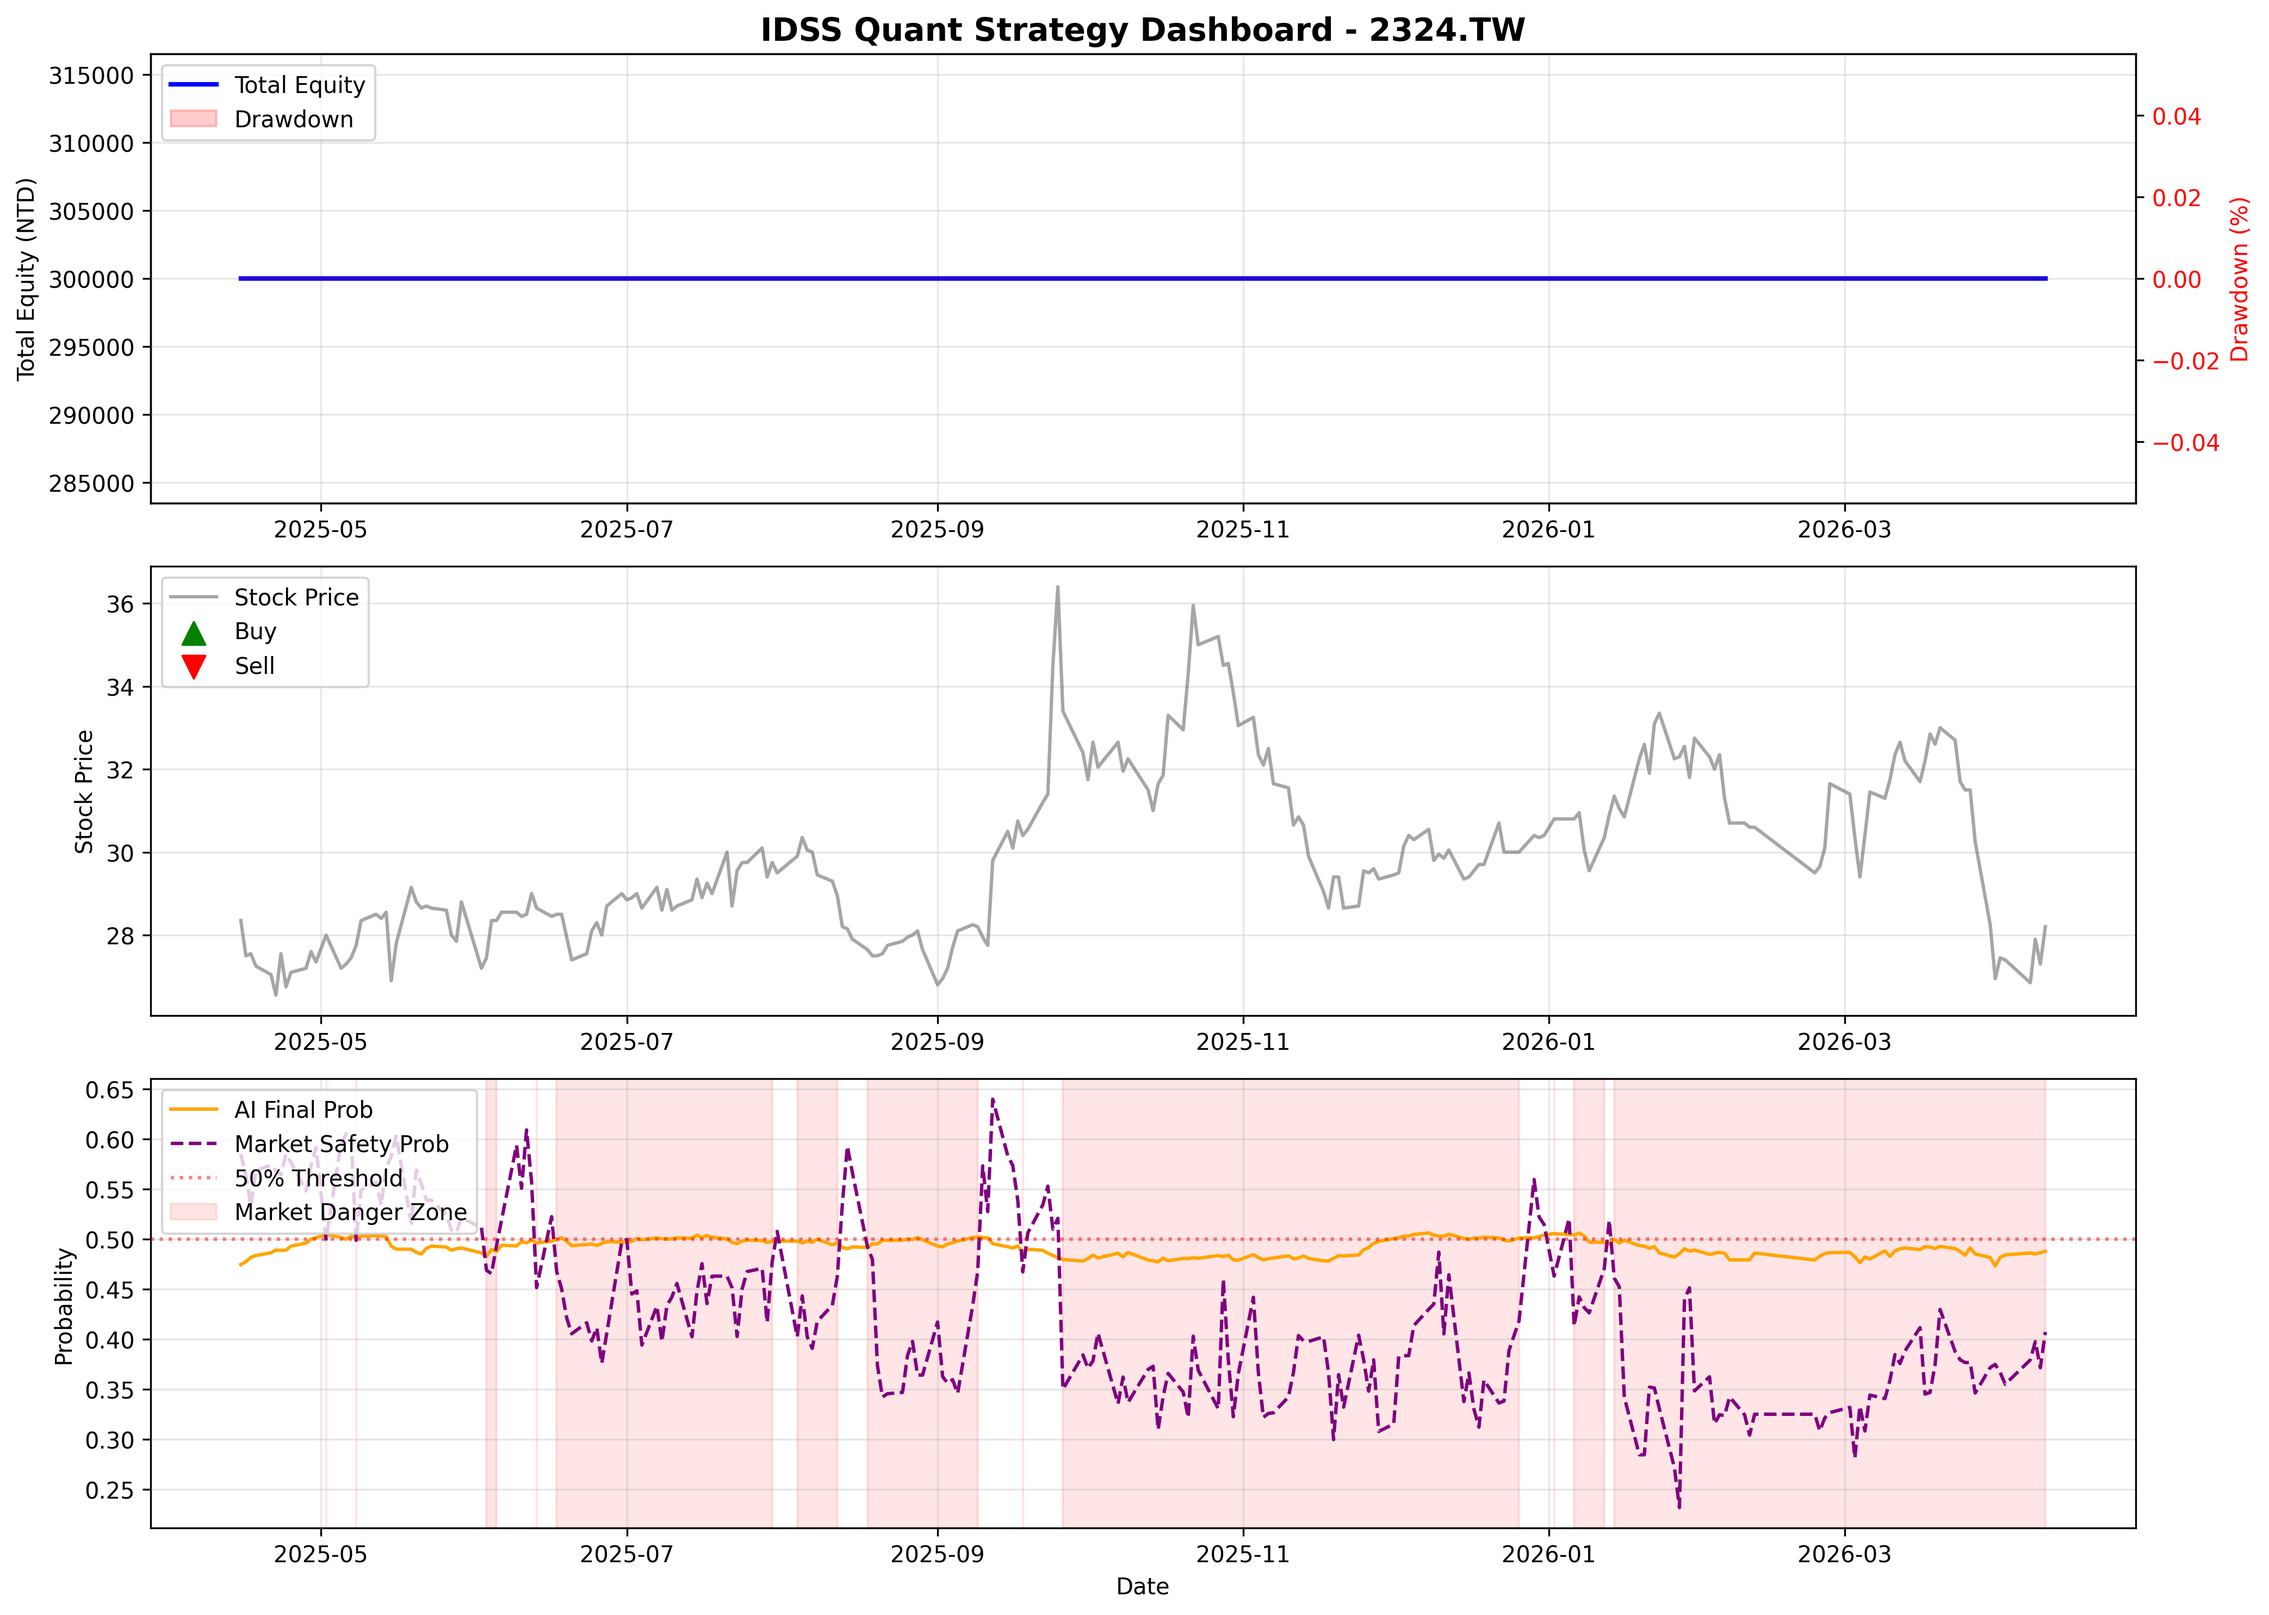
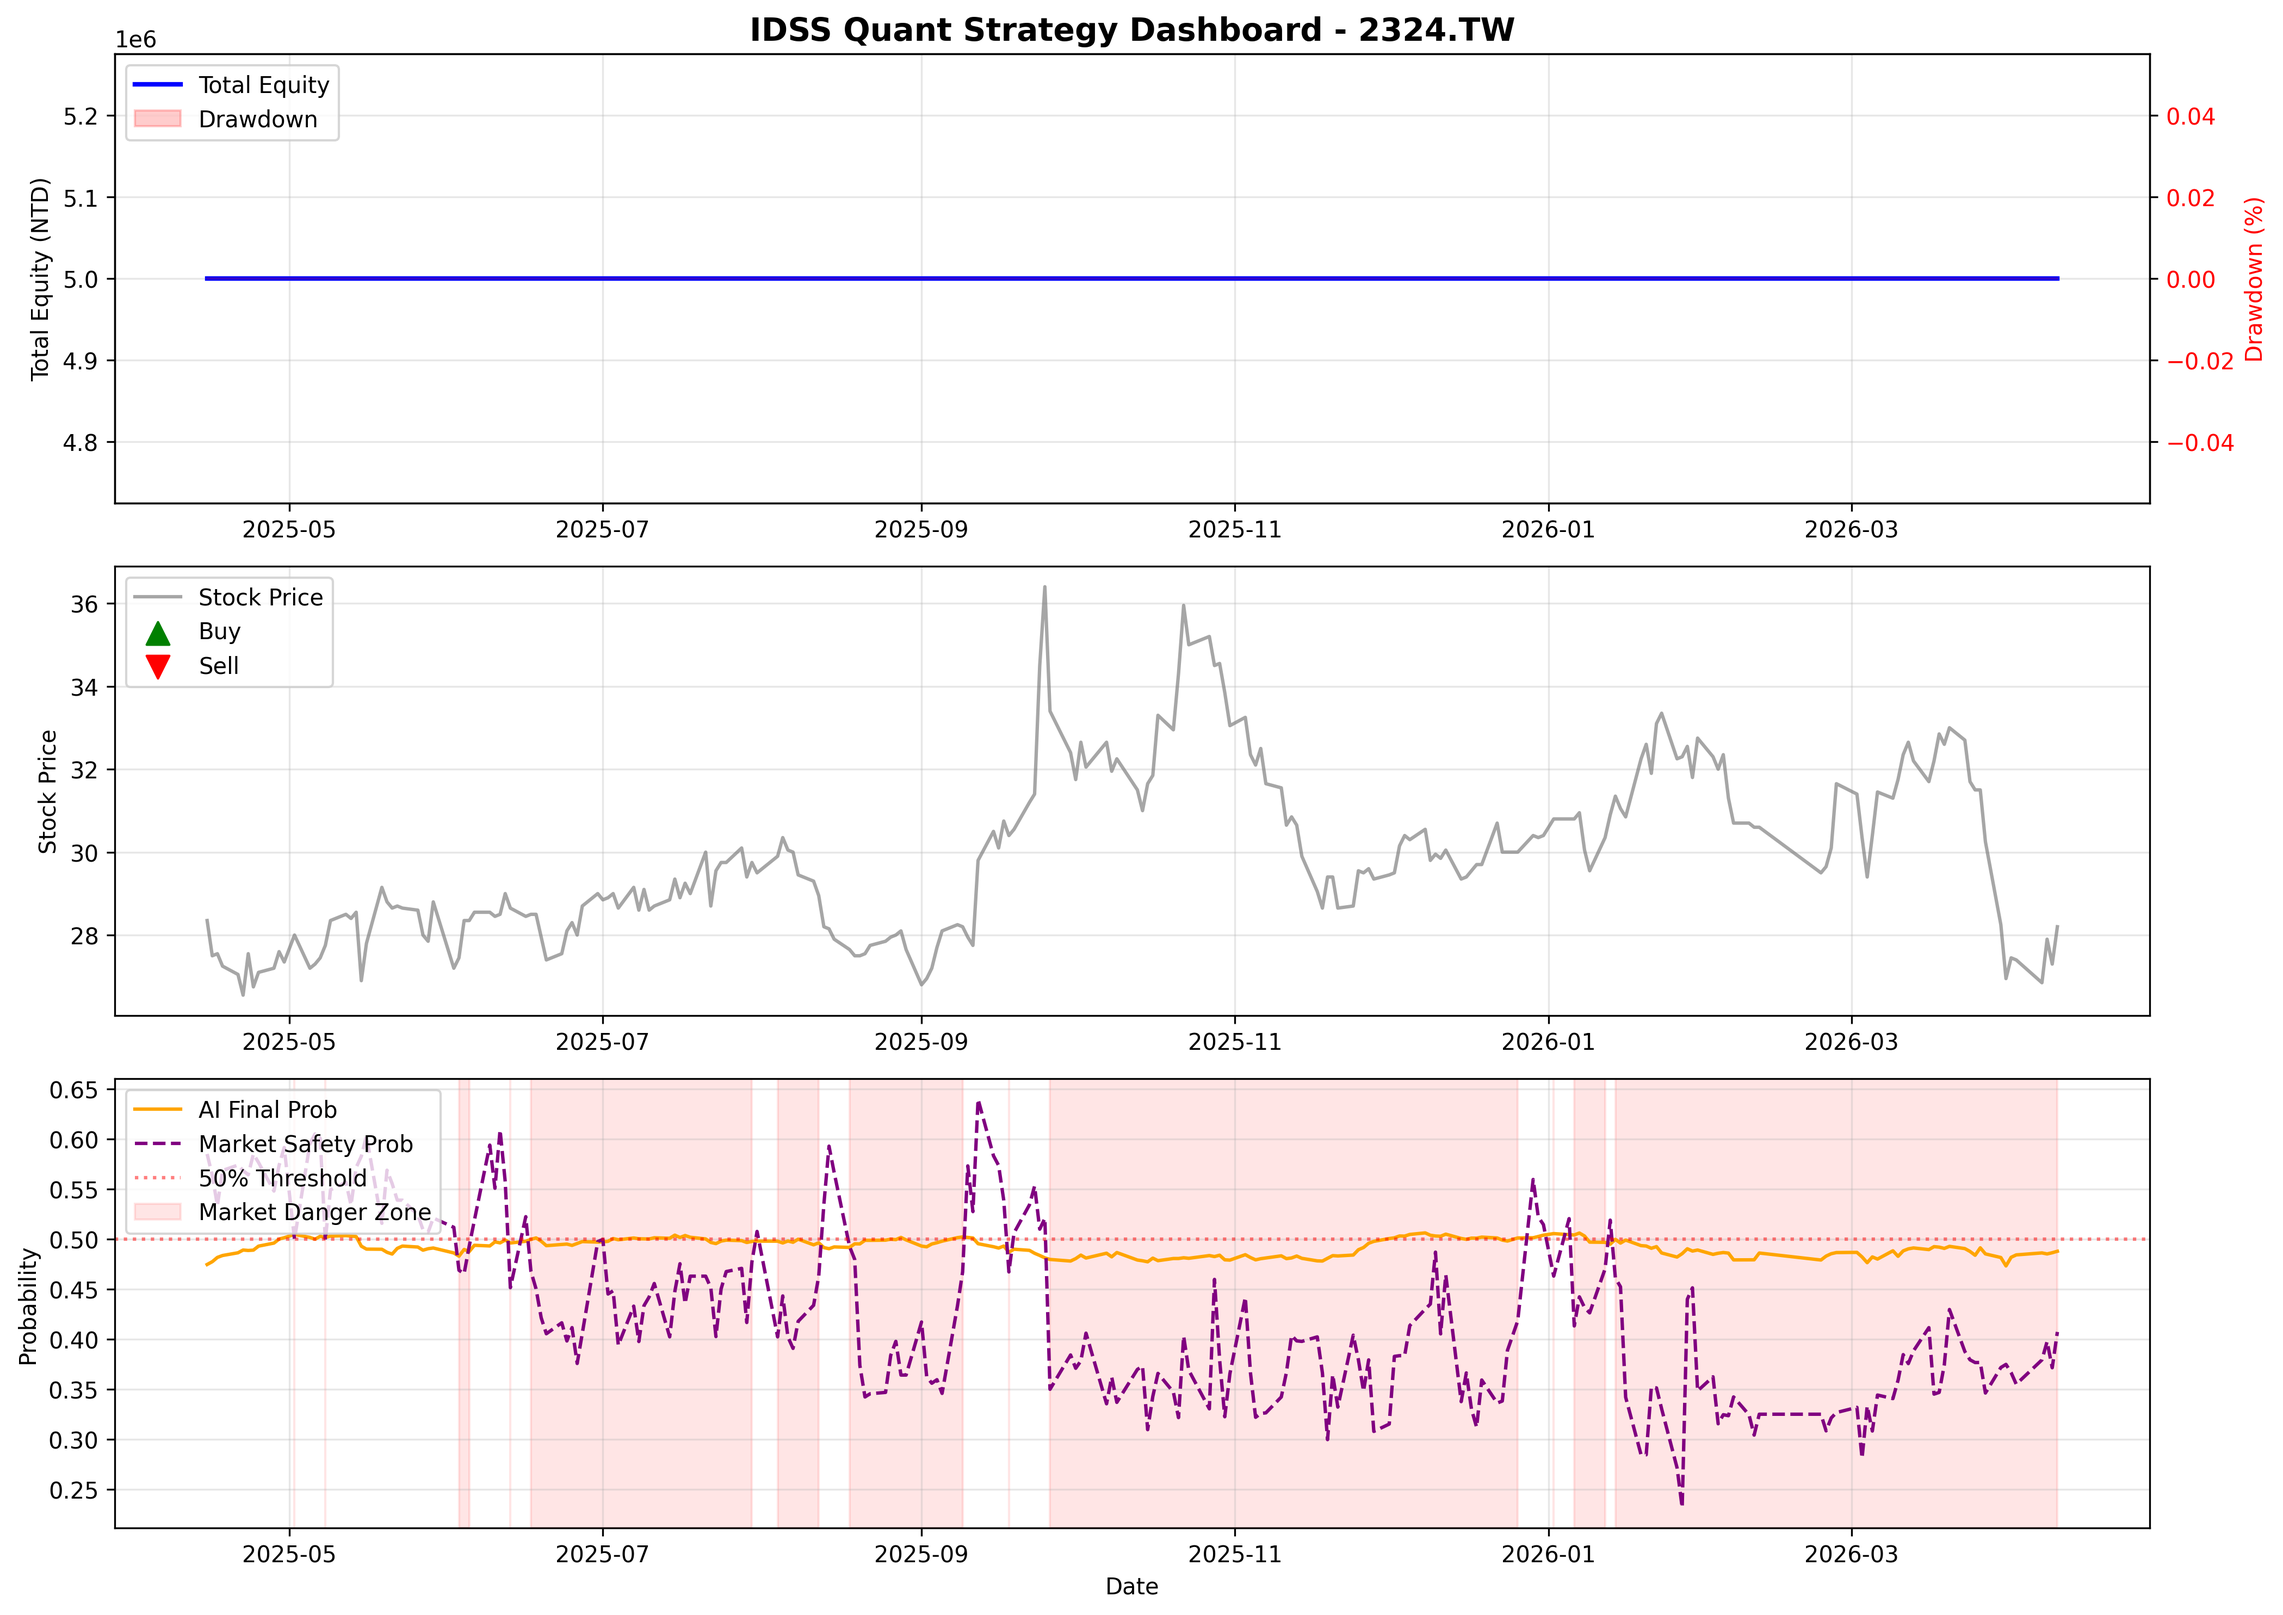
調整bt參數前

diff --git a/src/bt/strategy_config.py b/src/bt/strategy_config.py
@@ -1,4 +1,4 @@
-from dataclasses import dataclass
+from dataclasses import dataclass, field
 from enum import StrEnum
 
 
@@ -6,7 +6,6 @@ class TradingPersona(StrEnum):
     AGGRESSIVE = "aggressive"     # 激進型 (追求高報酬，容忍高回撤)
     MODERATE = "moderate"         # 穩健型 (風險報酬平衡)
     CONSERVATIVE = "conservative" # 保守型 (極度厭惡風險，寧可少賺)
-
 
 @dataclass(frozen=True)
 class RiskWeights:
@@ -16,10 +15,10 @@ class RiskWeights:
 
 @dataclass
 class StrategyConfig:
-    """行為樹策略的基礎超參數容器"""
+    """行為樹策略的基礎超參數容器 (此處預設值為 MODERATE 穩健型基底)"""
     stop_loss_tolerance: float = -0.1       # 強制停損容忍度 (-10%)
-    trailing_stop_drawdown: float = -0.08    # 移動停損回落容忍度 (-8%)
-    stop_loss_sell_ratio: float = 1.0        # 觸發停損時的賣出比例 (100% 全面撤退)
+    trailing_stop_drawdown: float = -0.06   # 移動停損回落容忍度 (-6%)
+    stop_loss_sell_ratio: float = 1.0       # 觸發停損時的賣出比例 (100% 全面撤退)
 
     sell_signal_threshold: float = 0.40      # AI 勝率低迷預警門檻 (<40%)
     warning_sell_ratio: float = 0.5          # AI 預警時的戰術減碼比例 (賣出 50%)
@@ -31,7 +30,7 @@ class StrategyConfig:
     max_entries: int = 3                     # 單一波段最大加碼次數
     max_gap_ratio: float = 0.07              # 低價股的跳空容忍度
 
-    strong_buy_threshold: float = 0.6       # 強烈買進訊號門檻 (>= 60%)
+    strong_buy_threshold: float = 0.6        # 強烈買進訊號門檻 (>= 60%)
     strong_buy_capital_ratio: float = 1.0    # 強烈買進時動用的資金比例 (100%)
 
     conservative_buy_threshold: float = 0.55 # 保守買進訊號門檻 (>= 55%)
@@ -44,16 +43,14 @@ class StrategyConfig:
     max_return_5d: float = 0.3
     max_bias_20: float = 0.25
 
-    # ================= 動態水位風控參數 (New) =================
-    # 數值越高，持股比例對門檻的「懲罰」就越重
-    buy_risk: RiskWeights = RiskWeights(heavy=0.2, light=0.1)       # 買進時的倉位懲罰係數
-    sell_risk: RiskWeights = RiskWeights(heavy=0.1, light=0.05)     # 賣出時的倉位敏感係數 (放寬門檻)
+    # ================= 動態水位風控參數 =================
+    buy_risk: RiskWeights = field(default_factory=lambda: RiskWeights(heavy=0.2, light=0.1))
+    sell_risk: RiskWeights = field(default_factory=lambda: RiskWeights(heavy=0.1, light=0.05))
 
-    # LLM 總開關
+    # ================= LLM 總開關 =================
     enable_llm_oracle: bool = False
     min_sentiment_score: int = 4
     block_sell_sentiment_score: int = 8
-
 
 class PersonaFactory:
     """投資性格工廠：根據使用者選擇，動態產生對應的策略參數"""
@@ -61,33 +58,35 @@ class PersonaFactory:
     @staticmethod
     def get_config(persona: TradingPersona) -> StrategyConfig:
         if persona == TradingPersona.AGGRESSIVE:
-            # 激進型：關閉防護罩，放寬買進門檻，拉開停利損空間
+            # 🚀 激進型：關閉防護罩，放寬買進門檻，拉開停利損空間
             return StrategyConfig(
                 stop_loss_tolerance=-0.15,        # 容忍 15% 虧損
-                trailing_stop_drawdown=-0.08,     # 回落 8% 才跑
-                take_profit_target=0.15,          # 賺 20% 才開始停利
+                trailing_stop_drawdown=-0.10,     # 回落 10% 才跑 (給予更高震盪空間)
+                take_profit_target=0.20,          # 賺 20% 才開始停利
+                take_profit_sell_ratio=0.30,      # 停利只賣 30%，剩下讓利潤奔跑
                 strong_buy_threshold=0.57,        # 稍微看漲就 All-in
                 conservative_buy_threshold=0.52,  # 勝率 52% 就敢試水溫
-                safe_threshold=0.4,              # 幾乎無視大盤
+                safe_threshold=0.4,               # 幾乎無視大盤
                 cooldown_days=1,
                 min_sentiment_score=3,
-                max_return_5d = 0.4,
-                buy_risk = RiskWeights(heavy=0.07, light=0.04)
+                max_return_5d=0.4,
+                buy_risk=RiskWeights(heavy=0.07, light=0.04)
             )
 
         elif persona == TradingPersona.CONSERVATIVE:
-            # 保守型：草木皆兵，極度要求大盤環境安全
+            # 🛡 保守型：草木皆兵，極度要求大盤環境安全
             return StrategyConfig(
-                stop_loss_tolerance=-0.05,       # 跌 5% 立刻砍倉
-                trailing_stop_drawdown=-0.025,    # 回落 2.5% 立刻閃人
+                stop_loss_tolerance=-0.05,        # 跌 5% 立刻砍倉
+                trailing_stop_drawdown=-0.05,     # 回落 5% 立刻閃人
                 take_profit_target=0.05,          # 賺 5% 就跑
-                take_profit_sell_ratio=0.75,
+                take_profit_sell_ratio=0.75,      # 停利直接賣掉 75%
                 strong_buy_threshold=0.63,        # 要求極高勝率才 All-in
                 conservative_buy_threshold=0.58,
-                safe_threshold=0.5,
-                cooldown_days=3,
+                safe_threshold=0.50,              # 大盤必須過半安全才出手
+                cooldown_days=3,                  # 頻繁休息
                 min_sentiment_score=5,
             )
 
         else:
+            # ⚖ 穩健型：預設值，追求風險與報酬的完美平衡
             return StrategyConfig()

diff --git a/src/run_batch_backtest.py b/src/run_batch_backtest.py
@@ -41,7 +41,7 @@ def run_multi_stock_backtest():
         "3006.TW", "2301.TW", "4916.TW", "2317.TW"
     ]
 
-    INITIAL_CASH = 4_000_000
+    INITIAL_CASH = 5_000_000
     OOS_DAYS = 240
     all_results = []
 
@@ -91,7 +91,7 @@ def run_multi_stock_backtest():
     print("="*60)
     print(df_report.to_string(index=False))
 
-    all_details_path = PathConfig.ALL_STOCKS_PERSONA_REPORT
+    all_details_path = PathConfig.ALL_STOCKS_PERSONA
     try:
         df_report.to_csv(all_details_path, index=False, encoding='utf-8-sig')
         print(f"\n💾 所有股票詳細回測明細已儲存至: {all_details_path}")

diff --git a/src/path.py b/src/path.py
@@ -33,7 +33,7 @@ class PathConfig:
     RESULT_REPORT = PathBase.processed / "report"
     EXPERIMENT_DETAILS = PathBase.processed / "report" / "experiment_detail.csv"
     EXPERIMENT_SUMMARY = PathBase.processed / "report" / "experiment_summary.csv"
-    ALL_STOCKS_PERSONA_REPORT = PathBase.processed / "report" / "all_stocks_persona_report.csv"
+    ALL_STOCKS_PERSONA = PathBase.processed / "report" / "all_stocks_persona.csv"
     SUMMARY_PERSONA = PathBase.processed / "report" / "summary_persona.csv"
     WATCHLIST = PathBase.processed / "watchlist.json"
     SETTINGS = PathBase.processed / "settings.json"
